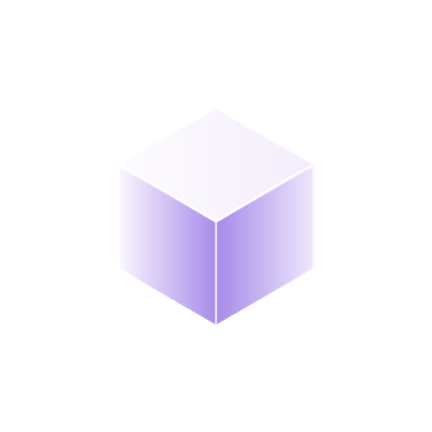
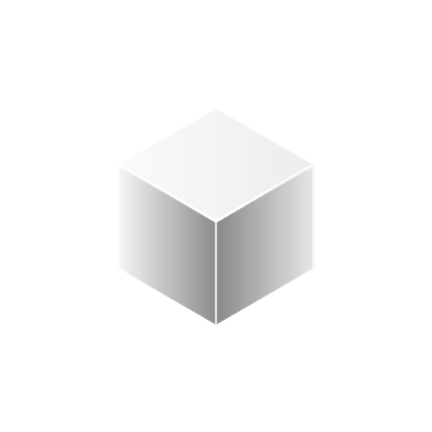
Add files via upload

Changed region(s): [[0.3009, 0.3912, 0.7222, 0.7523]]

diff --git a/index.html b/index.html
@@ -1,31 +1,31 @@
 <!doctype html>
 <html lang="en"><head><meta charset="utf-8">
 <meta name="viewport" content="width=device-width,initial-scale=1,viewport-fit=cover">
-<meta name="theme-color" content="#151027"><title>3D Viewer</title><link rel="stylesheet" href="/src/style.css"></head>
+<meta name="theme-color" content="#121212"><title>3D Viewer</title><link rel="stylesheet" href="/src/style.css"></head>
 <body>
-<header><button id="bFile" class="hb">☰ File ▾</button><span id="as">Autosaved locally ✓</span><button id="bExpT" class="exp">⬆ Export STL</button></header>
+<header><button id="bFile" class="hb" data-i="menu">File<span class="chev" data-i="down"></span></button><span id="as"></span><button id="bExpT" class="exp" data-i="upload">Export STL</button></header>
 <div id="menu" class="closed">
-<div class="mrow2"><button id="mSave" class="pri">⬇ Save to device</button><button id="mShare">⤴ Share</button></div>
-<button id="mNew">📄 New workspace</button><button id="mOpen">📂 Open project</button><button id="mSaveP">💾 Save project</button>
-<button class="off">☁ Save to Cloud… (jaldi)</button>
+<div class="mrow2"><button id="mSave" class="pri" data-i="download">Save to device</button><button id="mShare" data-i="share">Share</button></div>
+<button id="mNew" data-i="filePlus">New workspace</button><button id="mOpen" data-i="folder">Open project</button><button id="mSaveP" data-i="save">Save project</button>
+<button class="off" data-i="cloud">Save to Cloud… (jaldi)</button>
 <div class="mh">RECENT PROJECTS <small>Local history</small></div><div id="recent"></div><hr>
-<button id="mImp">⬇ Import STL/3MF/GLB/OBJ/ZIP</button>
-<button data-x="stl-s" class="s">Export selected STL</button><button data-x="stl-a">Export all STL</button>
-<button data-x="glb-s" class="s">Export selected GLB</button><button data-x="glb-a">Export all GLB</button>
-<button data-x="obj-s" class="s">Export selected OBJ</button><button data-x="obj-a">Export all OBJ</button></div>
+<button id="mImp" data-i="download">Import STL/3MF/GLB/OBJ/ZIP</button>
+<button data-x="stl-s" class="s" data-i="upload">Export selected STL</button><button data-x="stl-a" data-i="upload">Export all STL</button>
+<button data-x="glb-s" class="s" data-i="upload">Export selected GLB</button><button data-x="glb-a" data-i="upload">Export all GLB</button>
+<button data-x="obj-s" class="s" data-i="upload">Export selected OBJ</button><button data-x="obj-a" data-i="upload">Export all OBJ</button></div>
 <div id="bar">
-<button id="bUndo">↶</button><button id="bRedo">↷</button><button id="bDup">⧉</button><button id="bDel">🗑</button><i></i>
-<button id="tMove" data-tool="move"><b>✥</b><small>Move</small></button><button id="tRot" data-tool="rotate"><b>⟳</b><small>Rotate</small></button><button id="tScale" data-tool="scale" class="on"><b>⤢</b><small>Scale</small></button><i></i>
-<button id="bMode">▦</button><button id="bArr">⇔</button><button id="bFit">⛶</button><button id="bLock">🔓</button><i></i>
+<button id="bUndo" data-i="undo" title="Undo"></button><button id="bRedo" data-i="redo" title="Redo"></button><button id="bDup" data-i="copy" title="Duplicate"></button><button id="bDel" data-i="trash" title="Delete"></button><i></i>
+<button data-tool="move"><span data-i="move"></span><small>Move</small></button><button data-tool="rotate"><span data-i="rotate"></span><small>Rotate</small></button><button data-tool="scale" class="on"><span data-i="scale"></span><small>Scale</small></button><i></i>
+<button id="bMode" data-i="grid" title="Scene / Grid"></button><button id="bArr" data-i="arrange" title="Auto arrange"></button><button id="bFit" data-i="fit" title="Fit"></button><button id="bLock" data-i="unlock" title="View lock"></button><i></i>
 <label class="sn">Snap <select id="snap"><option value="0">Off</option><option value="0.1">0.1</option><option value="0.5">0.5</option><option value="1">1 mm</option><option value="5">5 mm</option><option value="10">10 mm</option></select></label></div>
 <div id="view"><canvas id="c"></canvas><div id="labels"></div><div id="alab"></div>
 <div id="rhud"><span class="z" id="hZ"></span><span class="y" id="hY"></span><span class="x" id="hX"></span></div>
 <div id="vg"><button data-v="iso">ISO</button><button data-v="x" class="x">X</button><button data-v="y" class="y">Y</button><button data-v="z" class="z">Z</button></div>
-<div id="pills"><button id="pDel">🗑 Delete</button><button id="pHide">⌄ Panels</button></div>
-<label class="fab">＋<input id="file" type="file" multiple hidden></label><input id="fileP" type="file" hidden>
-<div id="hint">＋ dabao aur STL / 3MF / GLB / OBJ / ZIP kholo (max 10)</div><div id="toast"></div></div>
+<div id="pills"><button id="pDel" data-i="trash">Delete</button><button id="pHide" data-i="down">Panels</button></div>
+<label class="fab" data-i="plus"><input id="file" type="file" multiple hidden></label><input id="fileP" type="file" hidden>
+<div id="hint">Plus dabao aur STL / 3MF / GLB / OBJ / ZIP kholo (max 10)</div><div id="toast"></div></div>
 <div id="sheet"><div id="grab"></div>
-<nav id="tabs"><button data-t="sel" class="on">Selection</button><button data-t="lay">Layers</button><button data-t="ins">Inspect</button></nav>
+<nav id="tabs"><button data-t="sel" data-i="target" class="on">Selection</button><button data-t="lay" data-i="layers">Layers</button><button data-t="ins" data-i="search">Inspect</button></nav>
 <section id="p-sel">
 <div id="selHead"><span class="badge">SOLID</span><b id="nmT"></b><div id="szT"></div></div>
 <input id="nmI" class="txt" placeholder="Name">
@@ -43,7 +43,7 @@
 </section>
 <section id="p-lay" hidden><div id="list"></div></section>
 <section id="p-ins" hidden><div id="cards"></div>
-<div class="set"><button id="chkS">🔍 Check selected</button><button id="chkV">🧊 Check visible</button></div>
+<div class="set"><button id="chkS" data-i="search">Check selected</button><button id="chkV" data-i="cube">Check visible</button></div>
 <table id="mt"></table>
 <div class="set">Infill (PLA/PETG/ABS) <input id="inf" type="range" min="5" max="100" value="20"><span id="infv">20%</span></div>
 <div class="note">Resin solid maana gaya hai. Weight sirf andaza hai.</div></section></div>
